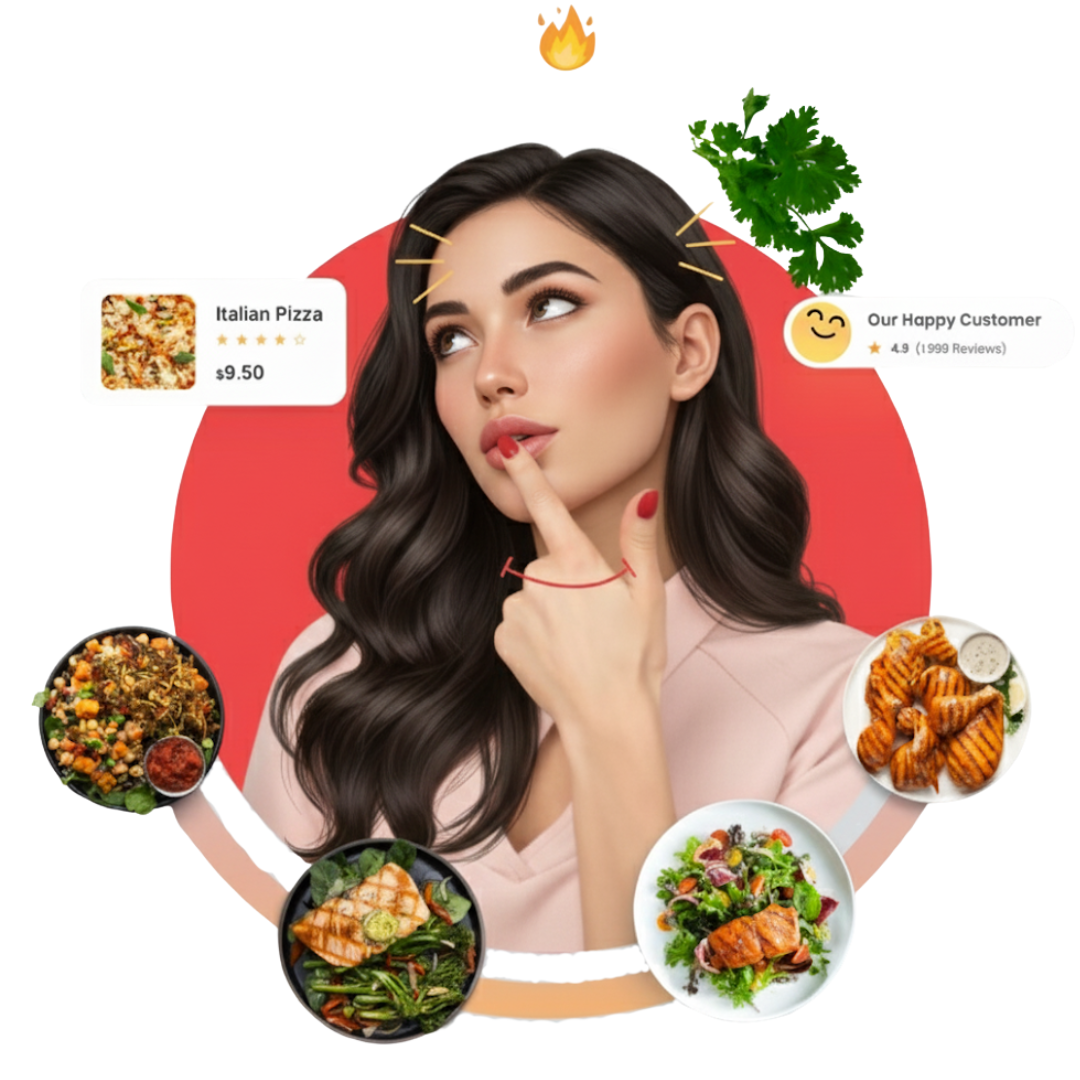
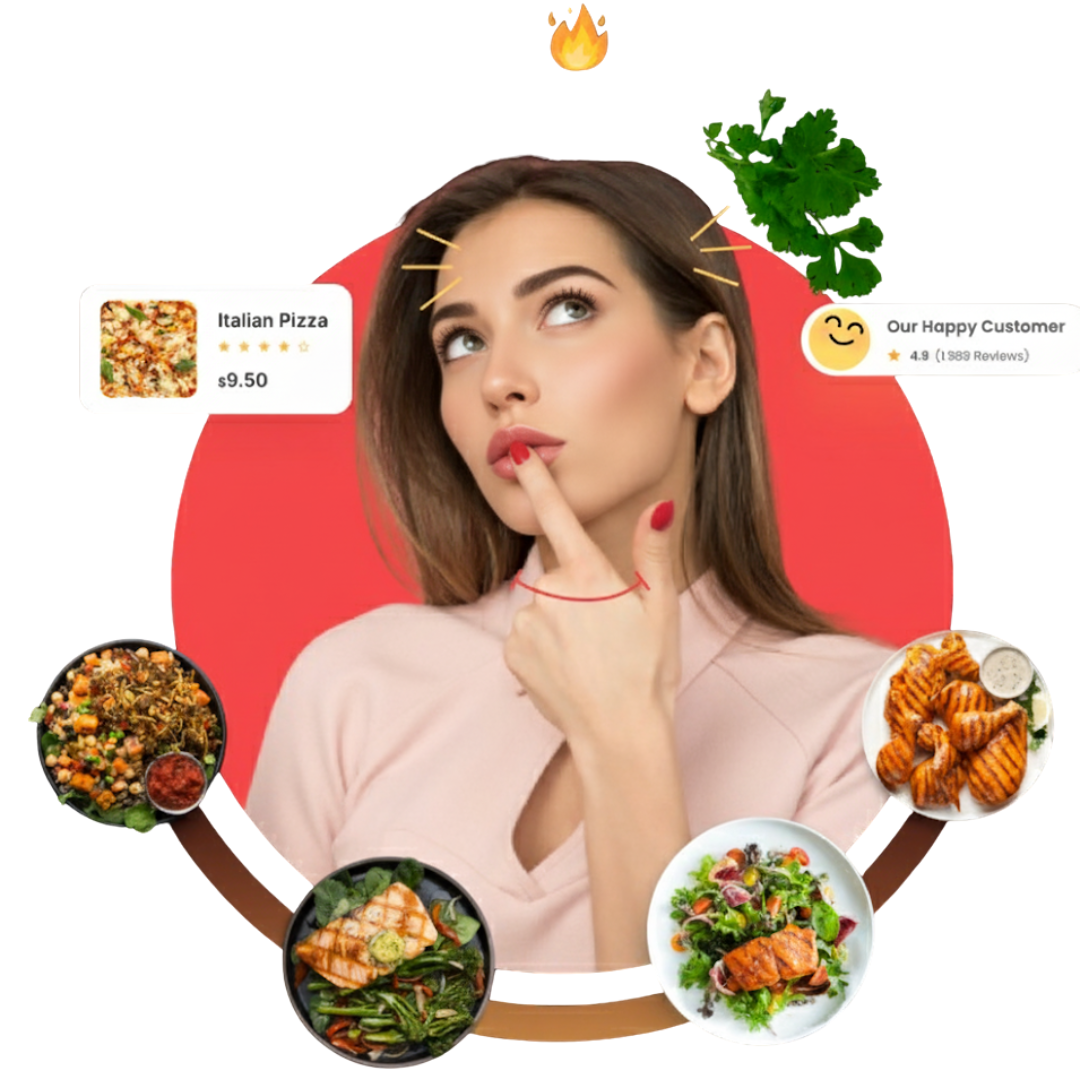
today special done

diff --git a/application/views/frontend/default/home/index.php b/application/views/frontend/default/home/index.php
@@ -413,65 +413,70 @@ favorites or globally inspired delights, we've got something to satisfy every pa
                 <?php 
                 $menus = $this->menu_model->get_menu_by_condition(['today_special' => true]);
                 if(!empty($menus)):
-                foreach ($menus as $key => $menu): ?>
+                foreach ($menus as $key => $menu): 
+                //  print_r($menu);
+                //  die();
+                 $restaurant = $this->restaurant_model->get_by_id($menu['restaurant_id']);
+                ?>
                     <div class="card grid-item restaurant-card col-lg-3 col-md-6 mb-lg-0 mb-5">
-                        <div class="order-img-box main-img">
-                            <a
-                                href="javascript:void(0)">
-                                <img src="<?php echo base_url('uploads/menu/' . sanitize($menu['thumbnail'])); ?>"
-                                    alt="#">
-                                <svg xmlns="http://www.w3.org/2000/svg" width="250" height="250" viewBox="0 0 250 250"
-                                    fill="none">
-                                    <circle cx="125.035" cy="124.965" r="116.153" transform="rotate(178.687 125.035 124.965)"
-                                        stroke="url(#paint0_linear_33_536)" stroke-width="16"></circle>
-                                    <defs>
-                                        <linearGradient id="paint0_linear_33_536" x1="131.787" y1="144.132" x2="131.787"
-                                            y2="280.046" gradientUnits="userSpaceOnUse">
-                                            <stop stop-color="#F57484" stop-opacity="0"></stop>
-                                            <stop offset="1" stop-color="#FDC55E"></stop>
-                                        </linearGradient>
-                                    </defs>
-                                </svg>
-                                <div class="percent-box"><?php 
-                                    $jsonDecodePrice = json_decode($menu['price']);
-                                    echo currency(number_format($jsonDecodePrice->menu, 0));  
-                                ?></div>
-                            </a>
-                        </div>
+                       <div class="order-img-box main-img">
+    <a href="javascript:void(0)">
+        <img src="<?php echo base_url('uploads/menu/' . sanitize($menu['thumbnail'])); ?>" alt="#">
+        <svg xmlns="http://www.w3.org/2000/svg" width="250" height="250" viewBox="0 0 250 250" fill="none">
+            <circle cx="125.035" cy="124.965" r="116.153" transform="rotate(178.687 125.035 124.965)"
+                stroke="url(#paint0_linear_33_536)" stroke-width="16"></circle>
+            <defs>
+                <linearGradient id="paint0_linear_33_536" x1="131.787" y1="144.132" x2="131.787"
+                    y2="280.046" gradientUnits="userSpaceOnUse">
+                    <stop stop-color="#F57484" stop-opacity="0"></stop>
+                    <stop offset="1" stop-color="#FDC55E"></stop>
+                </linearGradient>
+            </defs>
+        </svg>
+        <div class="percent-box">
+            <?php 
+                $jsonDecodePrice = json_decode($menu['price']);
+                $jsonDecodeDiscounted = json_decode($menu['discounted_price']);
+                $jsonDecodeHasDiscount = json_decode($menu['has_discount']);
+
+                $originalPrice = (float) $jsonDecodePrice->menu;
+                $discountedPrice = (float) $jsonDecodeDiscounted->menu;
+
+                if (!empty($jsonDecodeHasDiscount->menu) && $jsonDecodeHasDiscount->menu == 1 && $discountedPrice > 0) {
+                    $discountPercent = round((($originalPrice - $discountedPrice) / $originalPrice) * 100);
+                    echo $discountPercent . '% OFF';
+                }
+            ?>
+        </div>
+    </a>
+</div>
                         <div class="restaurant-body text-center">
-                            <div class="review-grid d-flex justify-content-around align-items-center m-auto">
-                                <?php if ($restaurant['rating']) { ?>
-                                    <ul class="inline-grid m-0 p-0">
-                                        <li><img class="rounded-img" src="https://dummyimage.com/600x400/000/fff" alt="" width="38"
-                                                height="38">
-                                        </li>
-                                        <li><img class="rounded-img" src="https://dummyimage.com/600x400/000/fff" alt="" width="38"
-                                                height="38">
-                                        </li>
-                                        <li><img class="rounded-img" src="https://dummyimage.com/600x400/000/fff" alt="" width="38"
-                                                height="38">
-                                        </li>
-                                    </ul>
-                                    <div class="star">
-                                        <svg width="24" height="22" viewBox="0 0 24 22" fill="none"
-                                            xmlns="http://www.w3.org/2000/svg">
-                                            <path
-                                                d="M11.0489 0.926805C11.3483 0.00549436 12.6517 0.00549579 12.9511 0.926806L14.9187 6.98253C15.0526 7.39456 15.4365 7.67352 15.8697 7.67352H22.2371C23.2058 7.67352 23.6086 8.91313 22.8249 9.48253L17.6736 13.2252C17.3231 13.4798 17.1764 13.9312 17.3103 14.3432L19.2779 20.3989C19.5773 21.3203 18.5228 22.0864 17.7391 21.517L12.5878 17.7743C12.2373 17.5197 11.7627 17.5197 11.4122 17.7743L6.2609 21.517C5.47719 22.0864 4.42271 21.3203 4.72206 20.3989L6.68969 14.3432C6.82356 13.9312 6.6769 13.4798 6.32642 13.2252L1.17511 9.48253C0.391392 8.91313 0.794168 7.67352 1.76289 7.67352H8.13026C8.56349 7.67352 8.94744 7.39456 9.08132 6.98253L11.0489 0.926805Z"
-                                                fill="#FFB800"></path>
-                                        </svg>
-                                    </div>
-                                    <p class="p-0 m-0">(
-                                        <?php echo sanitize($restaurant['rating']); ?>)
-                                    </p>
-                                <?php } ?>
-                            </div>
-                            <h3><?php echo sanitize($menu['name']); ?></h3>
-                            <p><?php echo sanitize($menu['details']) ?></p>
-                        </div>
+    <h3><?php echo sanitize($menu['name']); ?></h3>
+    <p><?php echo sanitize($menu['details']) ?></p>
+
+    <!-- Restaurant Name -->
+    <p class="restaurant-name" style="font-weight: 600; color:#d9534f;">
+        <?php echo sanitize($menu['restaurant_name']); ?>
+    </p>
+
+    <!-- Price Section -->
+    <div class="price-box">
+        <?php if (!empty($jsonDecodeHasDiscount->menu) && $jsonDecodeHasDiscount->menu == 1 && $discountedPrice > 0): ?>
+            <span class="discounted"><?php echo currency($discountedPrice); ?></span>
+            <span class="original" style="text-decoration: line-through; color:#888;">
+                <?php echo currency($originalPrice); ?>
+            </span>
+        <?php else: ?>
+            <span class="discounted"><?php echo currency($originalPrice); ?></span>
+        <?php endif; ?>
+    </div>
+</div>
                         <a class="btn btn-danger"
-                             href="javascript:void(0);"
-                            onclick="addToCart('<?php echo $menu['id']; ?>', '<?php $jsonDecodePrice = json_decode($menu['price']); echo $jsonDecodePrice->menu; ?>', true)">Order
-                            Now</a>
+   href="javascript:void(0);"
+   onclick="handleOrderNow('<?php echo $menu['id']; ?>', '<?php $jsonDecodePrice = json_decode($menu['price']); echo $jsonDecodePrice->menu; ?>', '<?php echo $menu['has_variant']; ?>', '<?php echo $restaurant['slug']; ?>', '<?php echo $restaurant['id']; ?>')">
+   Order Now
+</a>
+
                         <!-- <a class="btn btn-danger"
                             href="http://<?= $restaurant['slug']; ?>.fooyes.local">Order
                             Now</a> -->

diff --git a/application/views/frontend/default/home/scripts/index-script.php b/application/views/frontend/default/home/scripts/index-script.php
@@ -138,7 +138,7 @@
     }
 
      // CART OPERATIONS
-    function addToCart(menu_id, price, isButton) {
+    function addToCart(menu_id, price, isButton, restaurantSlug, restId) {
         if(
             menu_id != undefined && //If click on when have no variant
             isButton == false && // clicked on div
@@ -224,11 +224,48 @@
                         $('.cart-items').text(response);
                         toastr.success('<?php echo site_phrase('added_to_the_cart'); ?>');
                         $(".modal").modal('hide');
+                        window.location.href = "<?= base_url() ?>site/restaurant/" + restaurantSlug + "/" + restId;
                     }
                 }
             }
         });
     }
+
+     function viewselected_menu(menuid, menuprice, hasvariant, isButton) {
+        if(hasvariant == 0){
+
+            addToCart(menuid, menuprice,isButton);
+            return;
+        }
+
+        let url = '<?php echo base_url(); ?>site/selected_menu/' + menuid;
+
+        $.ajax({
+            url: url,
+            success: function(res) {
+                $("#getdetails_selected_menu").html(res);
+                // console.log(res); 
+                $('#popup').modal('show');
+                calculatePrice();
+            },
+            error: function() {
+                // alert("<?php echo $this->lang->line('fail'); ?>")
+            }
+        });
+
+        // holdModal('popup');
+    }
+
+    function handleOrderNow(menuId, menuPrice, hasVariant, restaurantSlug, restId) {
+    if (hasVariant == 0) {
+        // Agar variant nahi hai → direct add to cart
+        addToCart(menuId, menuPrice, true, restaurantSlug, restId);
+    } else {
+        // Agar variant hai → pehle restaurant page open karo aur uske baad popup dikhana
+        let restaurantUrl = "<?= base_url() ?>site/restaurant/" + restaurantSlug + "/" + restId + "#menu-" + menuId;
+        window.location.href = restaurantUrl;
+    }
+}
 
 
     // Update button state for mobile map

diff --git a/application/views/frontend/default/navigation/dark.php b/application/views/frontend/default/navigation/dark.php
@@ -30,13 +30,17 @@ if (count($restaurant_ids) > 0) {
                     <div class="collapse navbar-collapse justify-content-end" id="navbarNavDropdown">
                         <ul class="navbar-nav">
                                 
-                                <li class="cart-menu ml-3">
-                                    <a href="<?php echo site_url('chilli-hut-march'); ?>" class="cart-btn"><span
-                                            class="cart-items" id="#cart-items">
-                                            <?php echo sanitize($this->cart_model->total_cart_items()); ?>
-                                        </span><img
-                                            src="<?php echo base_url('assets/frontend/default/images/cart-icon.png') ?>" /></a>
-                                </li>
+                            <?php if(isset($cartView) && $cartView == true): ?>
+<li class="cart-menu ml-3">
+    <a href="<?php echo site_url('chilli-hut-march'); ?>" class="cart-btn">
+        <span class="cart-items" id="cart-items">
+            <?php echo sanitize($this->cart_model->total_cart_items()); ?>
+        </span>
+        <img src="<?php echo base_url('assets/frontend/default/images/cart-icon.png') ?>" />
+    </a>
+</li>
+<?php endif; ?>
+
                                 <!-- <li class="nav-item">
                                     <a class="btn btn-outline-light top-btn" href="<?php echo site_url('auth/registration/driver'); ?>"><?php echo site_phrase('become_a_delivery_man', true); ?></a>
                                 </li> -->

diff --git a/application/views/frontend/default/navigation/transparent.php b/application/views/frontend/default/navigation/transparent.php
@@ -35,13 +35,13 @@
                         <div class="collapse navbar-collapse justify-content-end" id="navbarNavDropdown">
                             <ul class="navbar-nav">
                                 
-                                <li class="cart-menu ml-3">
+                                <!-- <li class="cart-menu ml-3">
                                     <a href="<?php echo site_url('chilli-hut-march'); ?>" class="cart-btn"><span
                                             class="cart-items" id="#cart-items">
                                             <?php echo sanitize($this->cart_model->total_cart_items()); ?>
                                         </span><img
                                             src="<?php echo base_url('assets/frontend/default/images/cart-icon.png') ?>" /></a>
-                                </li>
+                                </li> -->
                                 <!-- <li class="nav-item">
                                     <a class="btn btn-outline-light top-btn" href="<?php echo site_url('auth/registration/driver'); ?>"><?php echo site_phrase('become_a_delivery_man', true); ?></a>
                                 </li> -->

diff --git a/application/views/frontend/default/restaurant/scripts/index-script.php b/application/views/frontend/default/restaurant/scripts/index-script.php
@@ -483,6 +483,20 @@ document.querySelectorAll(".basket-switcher-error").forEach(el => {
         });
     }
 
+$(document).ready(function() {
+    let hash = window.location.hash;
+    if (hash.startsWith("#menu-")) {
+        let menuId = hash.replace("#menu-", "");
+        // abhi menu ka price aur variant backend se fetch karna hoga
+        $.ajax({
+            url: '<?php echo base_url(); ?>site/get_menu_info/' + menuId,
+            success: function(res) {
+                let data = JSON.parse(res);
+                viewselected_menu(menuId, data.price, data.has_variant, false);
+            }
+        });
+    }
+});
 
 
     //  GET AND DISPALY THE MENU MAIN CATAGORIES BASED ON THE CLICK MENU 

diff --git a/application/controllers/Site.php b/application/controllers/Site.php
@@ -269,6 +269,16 @@ class Site extends Base
         $this->session->set_userdata('language', $selected_language);
         echo true;
     }
+
+    public function get_menu_info($menu_id) {
+    $menu = $this->menu_model->get_by_id($menu_id);
+    $response = [
+        'price' => json_decode($menu['price'])->menu,
+        'has_variant' => $menu['has_variant']
+    ];
+    echo json_encode($response);
+}
+
 }
 
 /* End of file Site.php */

diff --git a/application/views/frontend/default/guestcheckout/index.php b/application/views/frontend/default/guestcheckout/index.php
@@ -1,6 +1,9 @@
 <!-- NAVIGATION BAR -->
 
-<?php include APPPATH . 'views/frontend/default/navigation/dark.php';
+<?php 
+$cartView = true;
+
+include APPPATH . 'views/frontend/default/navigation/dark.php';
 
 
 $cash_on_delivery_settings = get_payment_settings("cash_on_delivery");

diff --git a/application/views/frontend/default/restaurant/index.php b/application/views/frontend/default/restaurant/index.php
@@ -2,7 +2,10 @@
 
 
 
-<?php include APPPATH . 'views/frontend/default/navigation/dark.php';
+<?php
+$cartView = true;
+
+include APPPATH . 'views/frontend/default/navigation/dark.php';
 ?>
 <style>
     .disabled {
